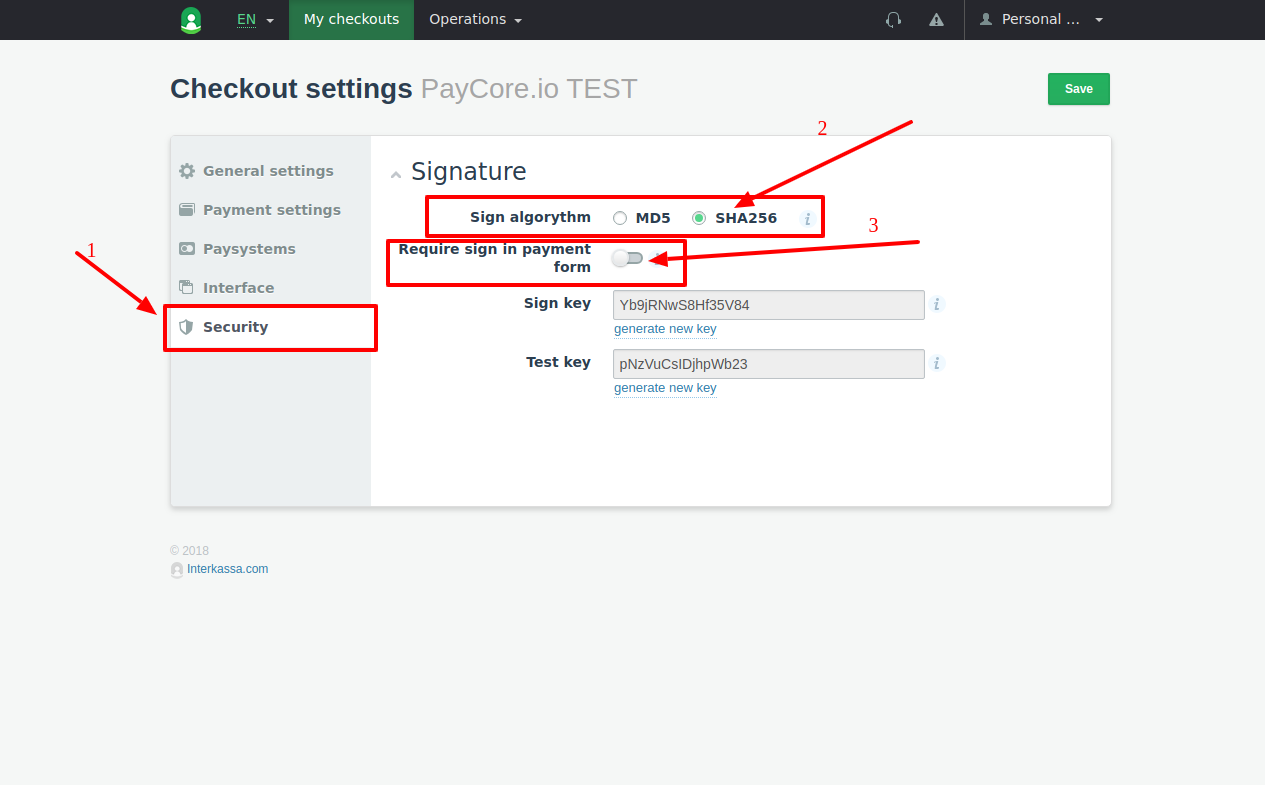
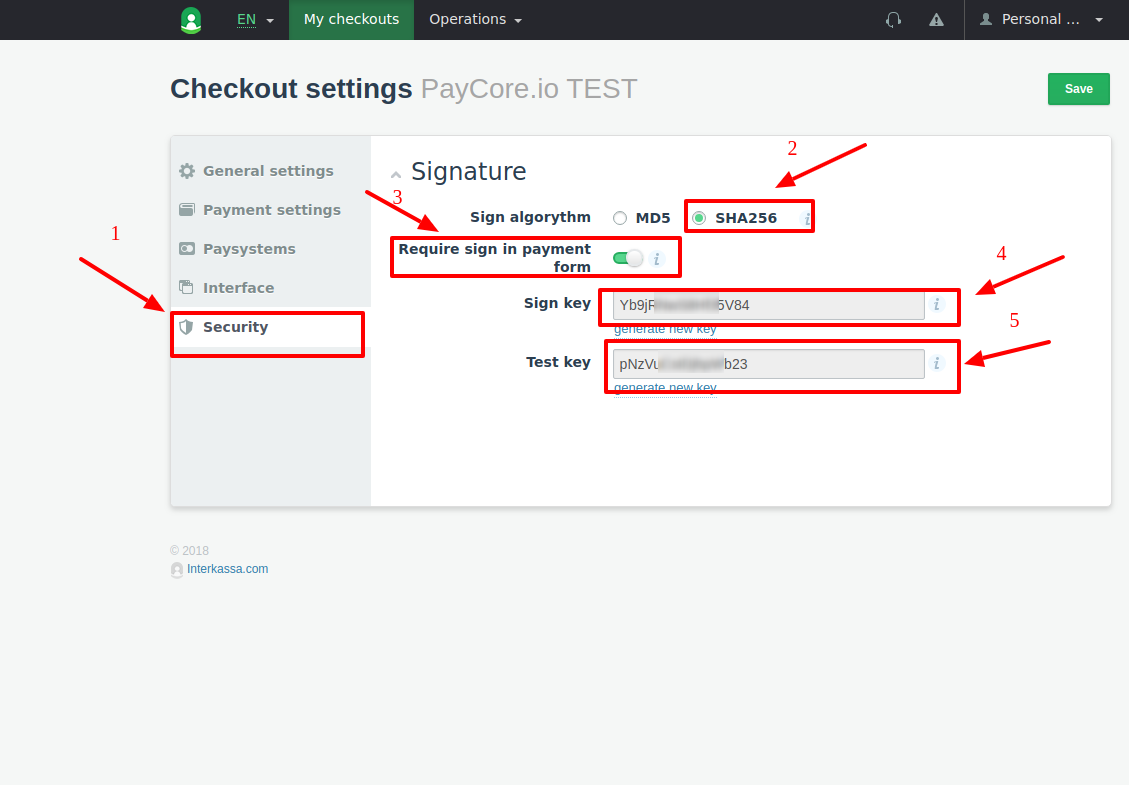
Deployed 8ce8c80 with MkDocs version: 1.0.4

diff --git a/payment-providers/interkassa/connect-manual/index.html b/payment-providers/interkassa/connect-manual/index.html
@@ -1347,6 +1347,11 @@
 </details>
 </li>
 <li>
+<p>Go to <strong><em>Payment Settings</em></strong> and set <strong>Check the uniqueness of payments</strong> to <strong><code>Enabled</code></strong></p>
+<details class="info"><summary>Screenshot</summary><p><a href="../images/interkassa-step3_2_1.png"><img alt="Step 3" src="../images/interkassa-step3_2_1.png" /></a></p>
+</details>
+</li>
+<li>
 <p>Go to <strong><em>Paysystems</em></strong> and activate <strong>at least 1</strong> paysystem</p>
 <details class="info"><summary>Screenshot</summary><p><a href="../images/interkassa-step3_2.png"><img alt="Step 3" src="../images/interkassa-step3_2.png" /></a></p>
 </details>
@@ -1355,7 +1360,7 @@
 <p>Go to <strong><em>Security</em></strong> and set up parameters:</p>
 <ul class="task-list">
 <li class="task-list-item"><label class="task-list-control"><input type="checkbox" disabled checked/><span class="task-list-indicator"></span></label> Sign algorithm only <strong><code>SHA256</code></strong></li>
-<li class="task-list-item"><label class="task-list-control"><input type="checkbox" disabled checked/><span class="task-list-indicator"></span></label> Require sign in payment form  <strong><code>Disabled</code></strong></li>
+<li class="task-list-item"><label class="task-list-control"><input type="checkbox" disabled checked/><span class="task-list-indicator"></span></label> Require sign in payment form  <strong><code>Enabled</code></strong></li>
 </ul>
 <details class="info"><summary>Screenshot</summary><p><a href="../images/interkassa-step3_3.png"><img alt="Step 3" src="../images/interkassa-step3_3.png" /></a></p>
 </details>
@@ -1393,7 +1398,7 @@
 <li class="task-list-item"><label class="task-list-control"><input type="checkbox" disabled checked/><span class="task-list-indicator"></span></label> Sign key</li>
 <li class="task-list-item"><label class="task-list-control"><input type="checkbox" disabled checked/><span class="task-list-indicator"></span></label> Test key</li>
 </ul>
-<details class="info"><summary>Screenshot</summary><p><a href="images/interkassa-step_connect.png"><img alt="Step 2" src="images/interkassa-step_connect.png" /></a></p>
+<details class="info"><summary>Screenshot</summary><p><a href="../images/interkassa-step_connect.png"><img alt="Step 2" src="../images/interkassa-step_connect.png" /></a></p>
 </details>
 <ul class="task-list">
 <li class="task-list-item"><label class="task-list-control"><input type="checkbox" disabled checked/><span class="task-list-indicator"></span></label> Save changes</li>

diff --git a/payment-providers/paybox/connect-manual/index.html b/payment-providers/paybox/connect-manual/index.html
@@ -1359,7 +1359,7 @@
 <li class="task-list-item"><label class="task-list-control"><input type="checkbox" disabled checked/><span class="task-list-indicator"></span></label> Merchant ID</li>
 <li class="task-list-item"><label class="task-list-control"><input type="checkbox" disabled checked/><span class="task-list-indicator"></span></label> Secret key (<em>for payout</em>)</li>
 </ul>
-<details class="info"><summary>Screenshot</summary><p><a href="images/paybox-step_connect.png"><img alt="Step 2" src="images/paybox-step_connect.png" /></a></p>
+<details class="info"><summary>Screenshot</summary><p><a href="../images/paybox-step_connect.png"><img alt="Step 2" src="../images/paybox-step_connect.png" /></a></p>
 </details>
 <ul class="task-list">
 <li class="task-list-item"><label class="task-list-control"><input type="checkbox" disabled checked/><span class="task-list-indicator"></span></label> Save changes</li>
